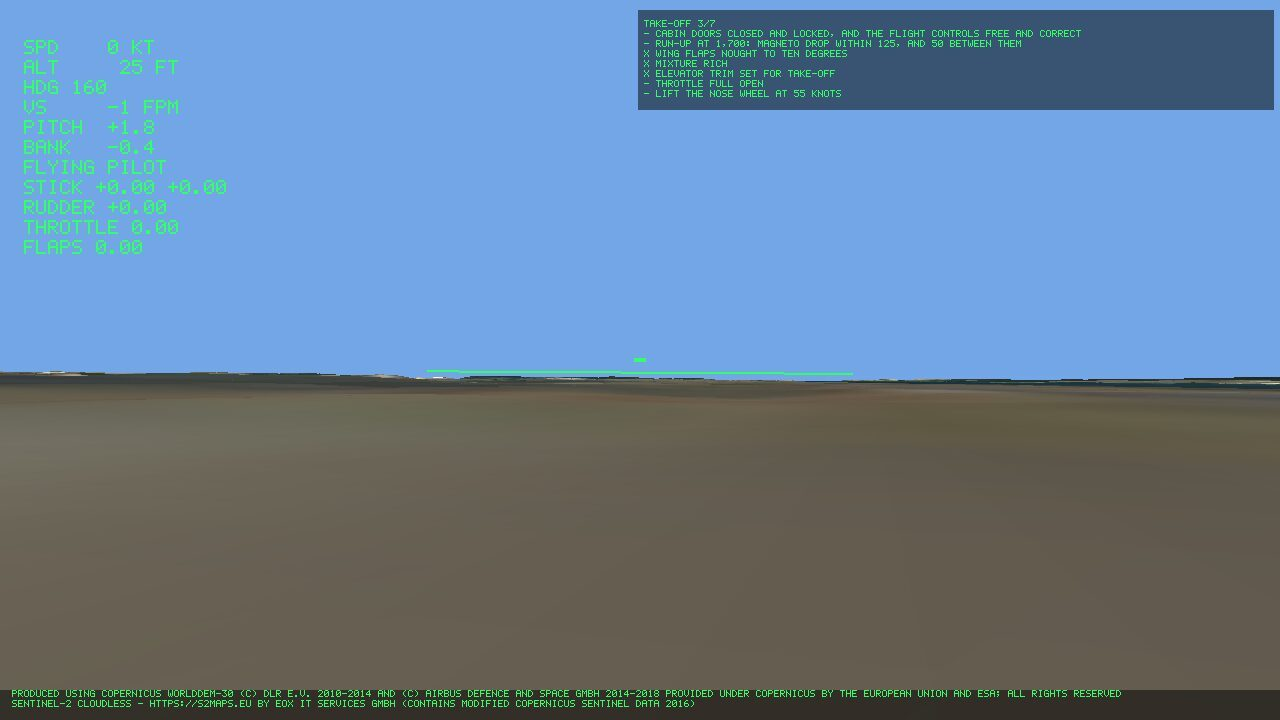
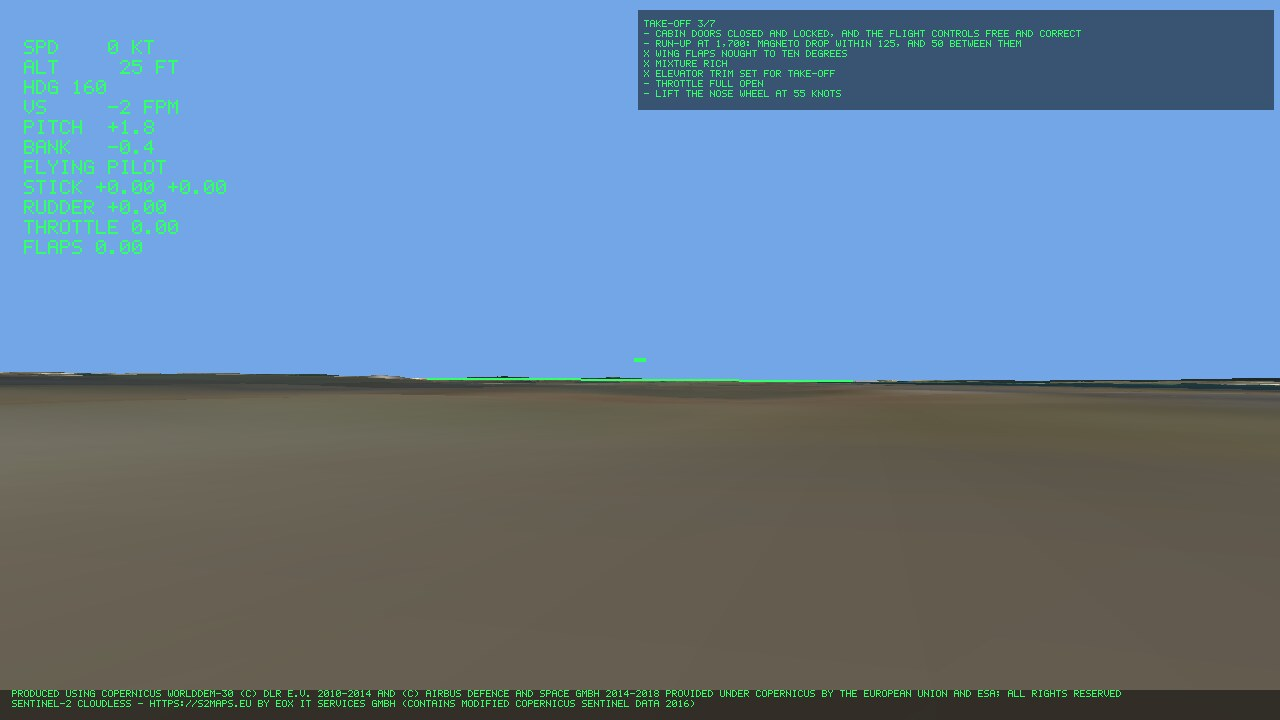
README: speedbrakes, figures, and the gallery re-shot with the HUD's true horizon
Seven gallery frames that show the HUD re-shot with the client's --shot
(linux-debug, headless, Vulkan; the ride-along against a local server):
the horizon line now lies on the drawn horizon, and the F-22A and 737
frames show the SPEEDBRAKE line. The old-horizon caveat is replaced by an
honest note about outside views. Figures recounted at 87f4dd3 (575
commits, 112 PRs, 972 tests, plan 95/95, tails 95 done / 37 open, 12
later), and the joystick, HUD and lessons rows say what #115 changed.

Docs only, owner bypassed CI. No key is in any file.

Claude-Session: https://claude.ai/code/session_01DZYuetcCUFyiJcvHzLU35J

diff --git a/README.md b/README.md
@@ -36,7 +36,7 @@ replays that prove a result, no deterministic simulation.
 > **Status, 2026-10-07.** Every numbered phase of the
 > [completion plan](docs/COMPLETION_PLAN.md) - 95 of 95 items - is ticked,
 > each against a named verification. What is left are the tails found along
-> the way: 94 done, 36 open. The biggest gaps, named first: **the ground is
+> the way: 95 done, 37 open. The biggest gaps, named first: **the ground is
 > drawn only around where a flight starts** (fly far enough and there is sky
 > beneath you); on a server **you can ask for your aircraft as you join, but
 > no test yet shows a windowed client drawing another player's choice**;
@@ -52,17 +52,19 @@ replays that prove a result, no deterministic simulation.
 | | |
 |---|---|
 | ![Riding along in an AI-flown Cessna on a server, following the coast](docs/images/server-ride-along-ai.jpg) | ![An F-22A Raptor seen from ahead over the Blue Mountains at 4,800 ft](docs/images/f22-blue-mountains.jpg) |
-| **On a server, riding along with the AI.** A client joined a local server and rode along in one of its four AI aircraft, flying the Sydney Harbour plan up the coast. The HUD says *FLYING AI* and shows the stick and throttle as the AI moves them; press T to take it over. | **An F-22A over the Blue Mountains**, seen from ahead. Fast jets get Mach on the HUD. |
+| **On a server, riding along with the AI.** A client joined a local server and rode along in one of its four AI aircraft, flying the Sydney Harbour plan up the coast. The HUD says *FLYING AI* and shows the stick and throttle as the AI moves them; press T to take it over. | **An F-22A over the Blue Mountains**, seen from ahead. Fast jets get Mach on the HUD, and aircraft with speedbrakes show their setting. |
 | ![Google Photorealistic 3D Tiles: Sydney's CBD across the harbour](docs/images/google-photorealistic-sydney.jpg) | ![The Short S.23 Empire flying boat afloat in Rose Bay](docs/images/empire-flying-boat-rose-bay.jpg) |
 | **Google's Photorealistic 3D Tiles**, with the owner's own key: Sydney's CBD across the harbour, with Google's attribution on screen. Whatever is drawn, the aircraft still meets the open DEM. | **The Short S.23 Empire flying boat afloat in Rose Bay.** Water is where the DEM's water mask puts it: the S.23 takes off from and alights on it, and a landplane ditches. |
 | ![Taranaki under a METAR of broken cloud at 1,500 ft and light rain](docs/images/taranaki-rain.jpg) | ![The take-off checklist on screen, items ticking themselves, at Sydney airport](docs/images/checklist-take-off.jpg) |
 | **Weather you can see.** Taranaki, New Zealand, under a METAR of 6 km visibility, light rain and broken cloud at 1,500 ft: the cloud base, haze and rain come from the report. | **Checklists that tick themselves.** The Cessna's take-off checklist, standing at Sydney airport: items the aircraft shows done are ticked (X); the rest wait to be flown, or for the pilot to confirm what the simulation cannot see. |
-| ![The view from a Boeing 737-300's cockpit over Sydney at 2,200 ft](docs/images/737-cockpit-view.jpg) | ![A de Havilland Mosquito FB Mk VI seen from the orbit camera over Sydney's suburbs](docs/images/mosquito-orbit-view.jpg) |
-| **From the cockpit of a 737-300** at 2,200 ft over Sydney's north shore, harbour ahead. | **A Mosquito FB Mk VI**, from the free orbit camera. Its flight model was written for this project from its 1943-44 trials and Pilot's Notes. |
+| ![The view from a Boeing 737-300's cockpit over Sydney at 2,200 ft](docs/images/737-cockpit-view.jpg) | ![A de Havilland Mosquito FB Mk VI seen from the orbit camera over Sydney airport](docs/images/mosquito-orbit-view.jpg) |
+| **From the cockpit of a 737-300** at 2,200 ft over Sydney's north shore, harbour ahead. The HUD's SPEEDBRAKE line is the lever a pilot now works from a key, a stick button or a quadrant. | **A Mosquito FB Mk VI**, from the free orbit camera, over Sydney airport. Its flight model was written for this project from its 1943-44 trials and Pilot's Notes. |
 
-What the frames also show, honestly: the HUD's horizon line in them is the old
-one, off the horizon drawn behind it (it has since been put on the drawn
-horizon, and these frames have not been re-shot); the imagery blurs close to the ground; and the
+What the frames also show, honestly: the HUD's horizon line is the aircraft's
+own - it lies on the drawn horizon from the cockpit, and from an outside view
+sits a little off it, as the camera does from the pilot's eye (the frames were
+re-shot on 2026-10-07 with that line corrected; the Google and Taranaki frames
+show no HUD); the imagery blurs close to the ground; and the
 look is a simulator's instruments over plain-shaded models - no liveries,
 moving control surfaces or cockpit interiors yet.
 
@@ -85,8 +87,8 @@ progress** means much of it runs and the missing part is named.
 | Thermals, ridge lift, microbursts | In progress - thermals rise over the sea as over land; no rotor or trapped waves behind a ridge |
 | Weather you can see - cloud, haze, rain | In progress - cloud is a flat sheet; no storm towers; rain falls only close by |
 | A choice of sixteen aircraft | In progress - on a server you can ask for an aircraft as you join and fly it, but no test yet shows a windowed client drawing another player's choice; the Learjet is not drawn |
-| Joysticks, HOTAS and yokes | **Done** |
-| A head-up display | Its horizon line now lies on the drawn horizon, held at every pitch and bank tested; the menu has not yet re-tagged it |
+| Joysticks, HOTAS and yokes | **Done** - and a pilot works the speedbrakes from a key, a stick button or a quadrant lever on eight aircraft; the F-15C's lever draws no drag, and nothing on screen lists the controls yet |
+| A head-up display | Its horizon line now lies on the drawn horizon, held at every pitch and bank tested, and it shows the speedbrakes where an aircraft has them; the menu has not yet re-tagged it |
 | Views: cockpit, ahead, behind, sides, above, free orbit | **Done** |
 
 ### The world
@@ -105,7 +107,7 @@ progress** means much of it runs and the missing part is named.
 | Feature | State |
 |---|---|
 | Checklists for every aircraft, ticking themselves | **Done** |
-| Lessons - take-off, circuit, climbs, turns, stalls, landing - for each of seven classes, with a debrief | In progress - 42 lessons fly; the Learjet's take-off lesson cannot catch an early rotation |
+| Lessons - take-off, circuit, climbs, turns, stalls, landing - for each of seven classes, with a debrief | In progress - 42 lessons fly, and the bomber's can be flown by hand; the Learjet's take-off lesson cannot catch an early rotation |
 | An instructor who demonstrates, then hands over | In progress - some stall demonstrations lose more height than the lesson allows |
 
 ### AI pilots
@@ -236,15 +238,15 @@ flowchart LR
 ## The scale of it
 
 Figures taken from the repository on **2026-10-07**, at `origin/main`
-(`2912f34`). The first commit was on 2026-09-17.
+(`87f4dd3`). The first commit was on 2026-09-17.
 
 | | |
 |---|---|
-| Commits on `main` | **570** (`git rev-list --count`) |
-| Pull requests merged | **109** (`gh pr list --state merged`) |
-| First-party code | **~126,000 lines**: `src/` 51,300, `tests/` 64,100, `tools/` 10,500 (`wc -l` of tracked source; `ext/` excluded) |
-| Tests | **969** registered with ctest (`ctest -N` at 2912f34, 2026-10-07): 68 unit-test files, 109 scripted end-to-end scenarios (rendered frames read back, servers and clients in separate processes, packages unpacked and run) |
-| Completion plan | **95 of 95** phase items ticked across 12 phases; **94** tails done, **36** open; 12 items set aside for later (`docs/COMPLETION_PLAN.md`) |
+| Commits on `main` | **575** (`git rev-list --count`) |
+| Pull requests merged | **112** (`gh pr list --state merged`) |
+| First-party code | **~126,000 lines**: `src/` 51,300, `tests/` 64,500, `tools/` 10,500 (`wc -l` of tracked source; `ext/` excluded) |
+| Tests | **972** registered with ctest (`ctest -N` at 87f4dd3, 2026-10-07): 68 unit-test files, 109 scripted end-to-end scenarios (rendered frames read back, servers and clients in separate processes, packages unpacked and run) |
+| Completion plan | **95 of 95** phase items ticked across 12 phases; **95** tails done, **37** open; 12 items set aside for later (`docs/COMPLETION_PLAN.md`) |
 | CI, on every pull request | Ubuntu (debug, release), Rocky Linux 9, macOS 15 (debug, release), Windows (MSVC debug and release, clang-cl) - plus cross-platform flight agreement, the server's container image, and packages run in stock containers. A nightly run repeats the multi-process tests |
 | Living documents | ~26,000 lines across `docs/`, of which `PROJECT_STATUS.md` alone is ~20,000 |
 | Aircraft, lessons | 16 aircraft, 15 drawn; a checklist for each, nine phases of flight; 42 lessons across 7 classes |
